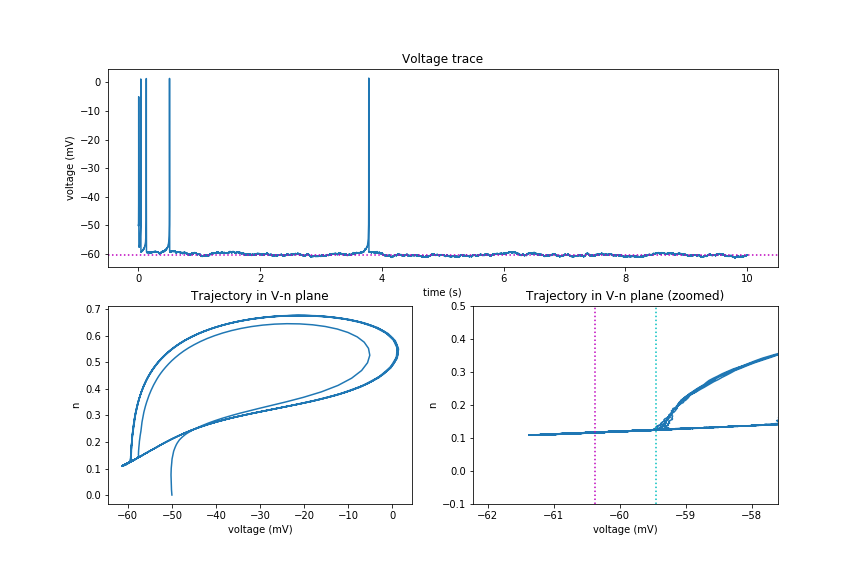
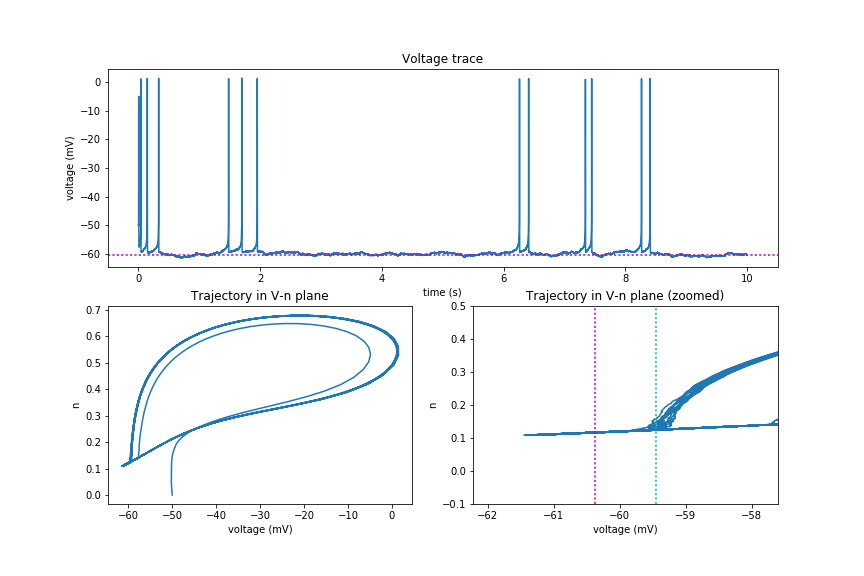
New partiotion of quiet ISIs. More histograms plotted

diff --git a/Neuron.py b/Neuron.py
@@ -87,13 +87,14 @@ def plot_everything(Cm, Iapp, duration, I_noise, weight, number =1, v0=-50*mV, n
     
     thresh,node,cycle_boundary = set_thresh(Cm, Iapp, weight)
     
-    file_name=str(Cm)+'  '+str(Iapp)+'  ('+str(v0)+', '+str(n0)+')  '+str(int(duration/second))+' s  '+str(I_noise)
-      
+    file_name=str(Cm)+'  '+str(Iapp)+'  ('+str(v0)+', '+str(n0)+')  '+str(int(duration/second))+' s  '+str(I_noise) + ' '+str(weight)
+    
     try:     
         data= get_simulation(file_name)
         print('Other plots are already generated. Find them in traces folder.')
-        plot_histograms(**data)
-        plt.savefig('histograms/'+file_name+'  '+str(weight)+'.png')
+        plot_histograms(node, **data)
+        if duration/ms >=50000:
+            plt.savefig('histograms/'+file_name+'.png')
         plt.show()
         
     except IOError:
@@ -105,16 +106,18 @@ def plot_everything(Cm, Iapp, duration, I_noise, weight, number =1, v0=-50*mV, n
         plt.show()
         
         V=V[-1]
-        ISI, ISI_quiet, ISI_burst, Min_Volt, time_above, time_down, time_up = collect_ISI_stats(t, V, Spikes, thresh)
-        plot_histograms(ISI, ISI_quiet, ISI_burst, Min_Volt, time_above, time_down, time_up) 
+        ISI, ISI_quiet, ISI_burst, Min_Volt, time_above, time_down, time_up = collect_ISI_stats(t, V, Spikes, thresh, node)
+        plot_histograms(node, ISI, ISI_quiet, ISI_burst, Min_Volt, time_above, time_down, time_up) 
         if duration/ms >=50000:
-            plt.savefig('histograms/'+file_name+'  '+str(weight)+'.png')
+            plt.savefig('histograms/'+file_name+'.png')
         plt.show()
         
         #to do with a loop
         data_generated =  {'Min_Volt':Min_Volt,'ISI':ISI, 'ISI_quiet':ISI_quiet, 'ISI_burst':ISI_burst, 'time_above':time_above, 'time_down':time_down, 'time_up':time_up }
         with open('simulations/'+file_name, 'wb') as f:
-            pickle.dump(data_generated, f)        
+            pickle.dump(data_generated, f)   
+            
+   
   
 def plot_traces(t,V,n,node, cycle_boundary):
     '''plots voltage against time'''   
@@ -141,35 +144,43 @@ def plot_traces(t,V,n,node, cycle_boundary):
               max(node-2*(cycle_boundary-node),cycle_boundary+2*(cycle_boundary-node))))
     plt.ylim((-.1,.5))
     
-def quiet_stats(t, V, Spikes, thresh):
+def quiet_stats(t, V, Spikes, thresh,node):
+    #array of booleans, length = length of t array
     below_thresh = (V<=thresh) & (t>Spikes[0]) & (t < Spikes[-1])
-    quiet_ISI_indices = np.unique(np.searchsorted(Spikes, t[below_thresh]))-1
-    spike_times_indices = np.searchsorted(t, Spikes)
+    below_node = (V<=node) & (t>Spikes[0]) & (t < Spikes[-1])
+    #array of spikes indices, after which there is a quiet ISI
+    quiet_ISI_indices = np.unique(np.searchsorted(Spikes, t[below_node]))-1
+    #indices of t elements corresponding to Spike times
+    spike_times_indices = np.searchsorted(t, Spikes,side='left')
+    
     Min_Volt = np.empty(quiet_ISI_indices.shape[0])
-    Min_t    = np.empty(quiet_ISI_indices.shape[0])
+    break_point = np.empty(quiet_ISI_indices.shape[0])
     Crossing_down = np.empty(quiet_ISI_indices.shape[0])
     Crossing_up = np.empty(quiet_ISI_indices.shape[0])
     
-    for i in range(quiet_ISI_indices.shape[0]):        
+    for i in range(quiet_ISI_indices.shape[0]):  
+        #array of t indices within each quiet ISI
         Slice=np.arange(spike_times_indices[quiet_ISI_indices[i]],spike_times_indices[quiet_ISI_indices[i]+1])
         Min_Volt[i] = np.min(V[Slice])
-        Min_t[i]    = t[quiet_ISI_indices[i]+np.argmin(V[Slice])]    
-        Crossing_down[i] = t[quiet_ISI_indices[i] + np.min(np.nonzero(below_thresh[Slice]))]
-        Crossing_up[i] = t[quiet_ISI_indices[i] + np.max(np.nonzero(below_thresh[Slice]))]
-    return quiet_ISI_indices, Min_Volt, Min_t, Crossing_down, Crossing_up 
+#        print(np.nonzero(V[Slice]<=node))
+        break_point[i]    = t[Slice[0]+np.min(np.nonzero(V[Slice]<=node))]  
+        Crossing_down[i] = t[Slice[0] + np.min(np.nonzero(below_thresh[Slice]))]
+        Crossing_up[i] = t[Slice[0] + np.max(np.nonzero(below_thresh[Slice]))]
+    return quiet_ISI_indices, Min_Volt, break_point, Crossing_down, Crossing_up 
     
-def calculate_quiet_ISIs_partition(ISI_quiet, Min_t, Crossing_down, Crossing_up):
+def calculate_quiet_ISIs_partition(ISI_quiet, break_point, Crossing_down, Crossing_up):
     time_above = ISI_quiet - (Crossing_up-Crossing_down)
-    time_down = Min_t-Crossing_down
-    time_up = Crossing_up-Min_t
+    time_down = break_point-Crossing_down
+    time_up = Crossing_up-break_point
+   
     return time_above, time_down, time_up
     
-def collect_ISI_stats(t, V, Spikes, thresh):
-    quiet_ISI_indices, Min_Volt, Min_t, Crossing_down, Crossing_up = quiet_stats(t, V, Spikes, thresh)
+def collect_ISI_stats(t, V, Spikes, thresh, node):
+    quiet_ISI_indices, Min_Volt, break_point, Crossing_down, Crossing_up = quiet_stats(t, V, Spikes, thresh, node)
     ISI = calculate_ISI(Spikes)
     ISI_quiet = ISI[quiet_ISI_indices]
-    ISI_burst = np.delete(ISI,ISI_quiet)
-    time_above, time_down, time_up = calculate_quiet_ISIs_partition(ISI_quiet, Min_t, Crossing_down, Crossing_up)
+    ISI_burst = np.delete(ISI,quiet_ISI_indices)
+    time_above, time_down, time_up = calculate_quiet_ISIs_partition(ISI_quiet, break_point, Crossing_down, Crossing_up)
     return ISI, ISI_quiet, ISI_burst, Min_Volt, time_above, time_down, time_up
                     
 
@@ -177,30 +188,50 @@ def calculate_ISI(Spikes):
     '''calculates all ISIs lengths'''
     return np.diff(Spikes)
     
-def plot_histograms(ISI, ISI_quiet, ISI_burst, Min_Volt, time_above, time_down, time_up):
+def plot_histograms(node, ISI, ISI_quiet, ISI_burst, Min_Volt, time_above, time_down, time_up):
     '''plots histogram for ISIs and classified ISIs'''
-            
+          
     plt.figure(figsize = (12,8))
+    
     plt.subplot(2,3,1)
     plt.title('All '+ str(ISI.shape[0]) + ' ISIs. ')
     plt.xlabel('ISI (s)')
-    plt.ylabel('# ISIs')
-    plt.hist(ISI)
+    plt.ylabel('Distribution of ISIs')
+    plt.xlim((0,10))
+    plt.hist(ISI, normed = True)
+    plt.axvline(ISI.mean(), color = 'r')
     plt.subplot(2,3,2)
     plt.title(str(ISI_quiet.shape[0]) + ' Quiet ISIs')
     plt.xlabel('ISI (s)')
-    plt.hist(ISI_quiet)
+    plt.hist(ISI_quiet, normed = True)
+    plt.axvline(ISI_quiet.mean(), color = 'r')
+    plt.xlim((0,10))
     plt.subplot(2,3,3)
     plt.title(str(ISI_burst.shape[0]) + ' Burst ISIs')
     plt.xlabel('ISI (s)')
-    plt.hist(ISI_burst)
+    plt.hist(ISI_burst,normed = True)
+    plt.axvline(ISI_burst.mean(), color = 'r')
+    plt.xlim((0,1))
     plt.subplot(2,3,4)
-    plt.hist(time_above)
+    plt.title('Time from thresh to node')
+    plt.hist(time_down, normed = True)
+    plt.axvline(time_down.mean(), color = 'r')
+    plt.xlabel('time (s)')
+    plt.ylabel('Distribution of times')
+    plt.xlim((0,1))
     plt.subplot(2,3,5)
-    plt.hist(time_down)
+    plt.title('Time from node to thresh')
+    plt.hist(time_up, normed = True)
+    plt.axvline(time_up.mean(), color = 'r')
+    plt.xlabel('time (s)')
+    plt.xlim((0,10))
     plt.subplot(2,3,6)
-    plt.hist(time_up)
-    
+    plt.title('Time above the thresh')
+    plt.hist(time_above, normed = True)
+    plt.axvline(time_above.mean(), color = 'r')
+    plt.xlabel('time (s)')
+    plt.xlim((0,1))
+    plt.tight_layout()  
     
 defaultclock.dt = 0.05*ms
 
@@ -213,12 +244,12 @@ gNa = 35*msiemens
 gK = 9*msiemens
 tau=1*ms
 
-Cm = 1.64*uF # /cm**2
+Cm = 1.7*uF # /cm**2
 Iapp = .158*uA
-I_noise = 0.07*uA
+I_noise = 0.15*uA
 duration = 500000*ms
 
-weight=.5
+weight=0 #after data is saved we can't change weight anymore
 
 eqs = '''
 dv/dt = (-gNa*m**3*h*(v-ENa)-gK*n**4*(v-EK)-gL*(v-EL)+Iapp+I_noise*sqrt(tau)*xi)/Cm : volt
